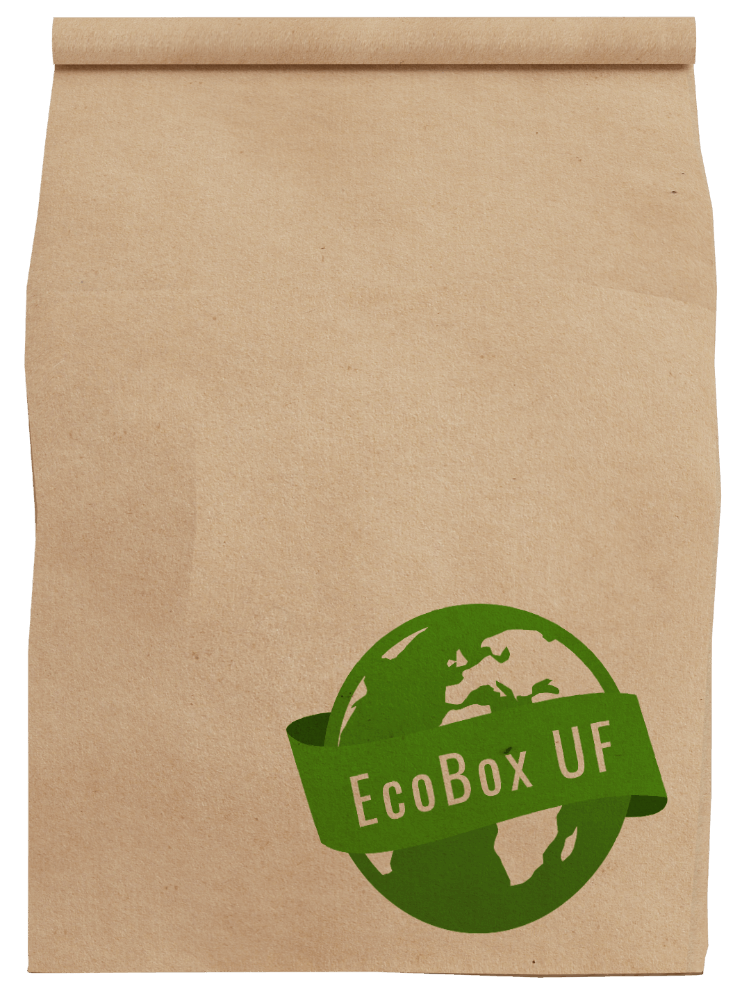
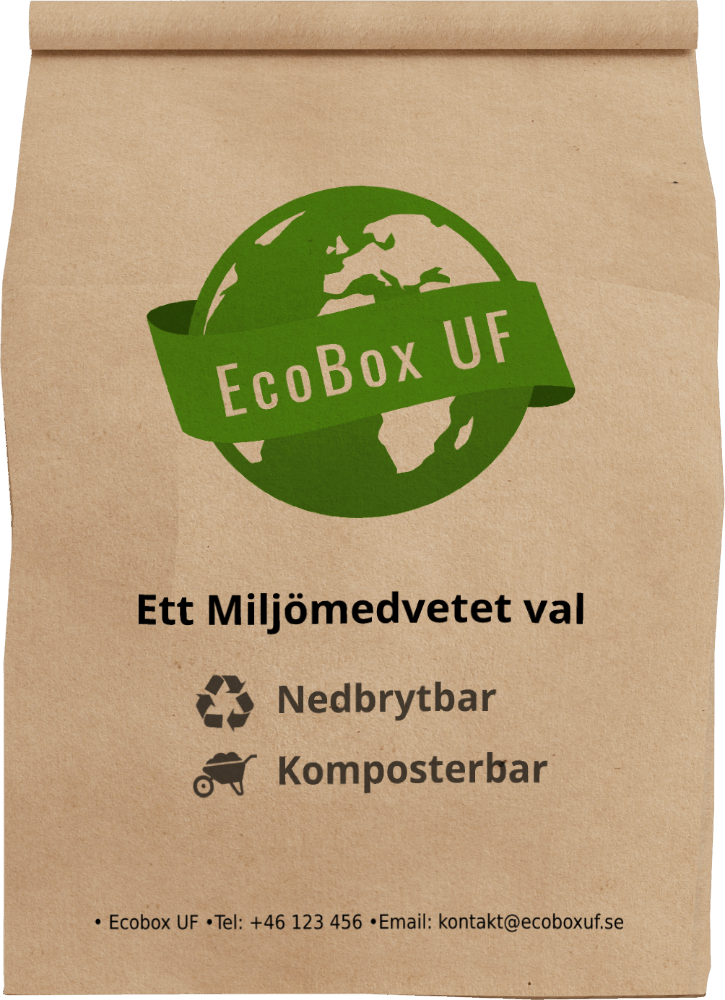
Removed unnessesary files and images, updated with new content

diff --git a/css/style.min.css b/css/style.min.css
@@ -1,1 +1,1 @@
-@font-face{font-family:'icomoon';src:url("../fonts/icomoon/icomoon.eot?srf3rx");src:url("../fonts/icomoon/icomoon.eot?srf3rx#iefix") format("embedded-opentype"),url("../fonts/icomoon/icomoon.ttf?srf3rx") format("truetype"),url("../fonts/icomoon/icomoon.woff?srf3rx") format("woff"),url("../fonts/icomoon/icomoon.svg?srf3rx#icomoon") format("svg");font-weight:normal;font-style:normal}body{font-family:"Roboto",Arial,serif;line-height:1.8;font-size:20px;font-weight:300}a{color:#5aac16;-webkit-transition:.5s;-o-transition:.5s;transition:.5s}a:hover{text-decoration:none;color:#4d891b}a:focus,a:active{outline:0}p,span{margin-bottom:1.5em;font-size:20px;color:#727272;font-weight:300;font-family:"Roboto",Arial,serif}span{font-size:18px;color:rgba(114,114,114,0.8)}h1,h2,h3,h4,h5,h6{color:rgba(0,0,0,0.8);font-family:"Roboto",Arial,serif;font-weight:300;margin:0 0 30px 0}::-webkit-selection{color:#fcfcfc;background:#5aac16}::-moz-selection{color:#fcfcfc;background:#5aac16}::selection{color:#fcfcfc;background:#5aac16}.btn{text-transform:uppercase;letter-spacing:2px;-webkit-transition:.3s;-o-transition:.3s;transition:.3s}.btn.btn-primary{background:#5aac16;color:#fff;border:none!important;border:2px solid transparent!important}.btn.btn-primary:hover,.btn.btn-primary:active,.btn.btn-primary:focus{box-shadow:none;background:#f03861}.btn:hover,.btn:active,.btn:focus{background:#393e46!important;color:#fff;outline:none!important}.btn.btn-default:hover,.btn.btn-default:focus,.btn.btn-default:active{border-color:transparent}.heading-section{margin-bottom:5em}.heading-section h2{position:relative;font-size:22px;letter-spacing:1px;text-transform:uppercase;font-weight:700}.heading-section h2:before{position:absolute;content:'';top:-15px;left:50%;margin-left:-15px;width:20px;height:3px;background:#5bac17}header,#fh5co-intro-section,#fh5co-services-section,#fh5co-featured-work-section,#fh5co-common-section,#fh5co-blog-section,#footer,#fh5co-contact-section,#fh5co-work-section{padding-bottom:2em}header{padding-top:2em}header .fh5co-navbar-brand{padding-bottom:2em;display:flex;flex-direction:column;align-items:center}header .fh5co-navbar-brand .fh5co-logo{position:relative;font-size:50px;color:#000;text-transform:uppercase;font-weight:700;letter-spacing:1px}header .fh5co-navbar-brand .fh5co-logo:after{position:absolute;bottom:13px;right:-14px;width:12px;height:12px;background:#f03861;content:''}header .fh5co-navbar-brand .fh5co-logo:hover{text-decoration:none}header .logo{height:20vh}header #fh5co-main-nav>ul{padding:0;margin:0}header #fh5co-main-nav>ul li{list-style:none;display:inline-block;margin-left:40px;font-size:18px}@media screen and (max-width:768px){header #fh5co-main-nav>ul li{display:block;margin-left:0;margin-bottom:15px}}header #fh5co-main-nav>ul li a{padding-bottom:5px;color:#000;position:relative;font-weight:400}header #fh5co-main-nav>ul li a.active:before{position:absolute;width:7px;height:7px;content:'';top:-5px;right:-7px;background:#5bac17;-webkit-border-radius:2px;-moz-border-radius:2px;-ms-border-radius:2px;border-radius:2px}header #fh5co-main-nav>ul li a:hover,header #fh5co-main-nav>ul li a:focus{text-decoration:none;color:#000}header #fh5co-main-nav>ul li:first-child{margin-left:0}#fh5co-intro-section h2{font-size:40px;line-height:1.5em;margin-bottom:20px}@media screen and (max-width:480px){#fh5co-intro-section h2{font-size:30px}}.owl-carousel{margin-bottom:5em}.owl-carousel .owl-controls,.owl-carousel-posts .owl-controls{margin-top:0}.owl-carousel .owl-controls .owl-nav .owl-next,.owl-carousel .owl-controls .owl-nav .owl-prev,.owl-carousel-posts .owl-controls .owl-nav .owl-next,.owl-carousel-posts .owl-controls .owl-nav .owl-prev{top:50%;margin-top:-29px;z-index:9999;position:absolute;-webkit-transition:.2s;-o-transition:.2s;transition:.2s}.owl-carousel-posts .owl-controls .owl-nav .owl-next,.owl-carousel-posts .owl-controls .owl-nav .owl-prev{top:24%}.owl-carousel .owl-controls .owl-nav .owl-next,.owl-carousel-posts .owl-controls .owl-nav .owl-next{right:40px}.owl-carousel .owl-controls .owl-nav .owl-next:hover,.owl-carousel-posts .owl-controls .owl-nav .owl-next:hover{margin-right:-10px}.owl-carousel .owl-controls .owl-nav .owl-prev,.owl-carousel-posts .owl-controls .owl-nav .owl-prev{left:40px}.owl-carousel .owl-controls .owl-nav .owl-prev:hover,.owl-carousel-posts .owl-controls .owl-nav .owl-prev:hover{margin-left:-10px}.owl-carousel-posts .owl-controls .owl-nav .owl-next{right:-50px}@media screen and (max-width:768px){.owl-carousel-posts .owl-controls .owl-nav .owl-next{right:0}}.owl-carousel-posts .owl-controls .owl-nav .owl-prev{left:-50px}@media screen and (max-width:768px){.owl-carousel-posts .owl-controls .owl-nav .owl-prev{left:0}}.owl-carousel-posts .owl-controls .owl-nav .owl-next i,.owl-carousel-posts .owl-controls .owl-nav .owl-prev i,.owl-carousel-fullwidth .owl-controls .owl-nav .owl-next i,.owl-carousel-fullwidth .owl-controls .owl-nav .owl-prev i{color:#000}.owl-carousel-posts .owl-controls .owl-nav .owl-next:hover i,.owl-carousel-posts .owl-controls .owl-nav .owl-prev:hover i,.owl-carousel-fullwidth .owl-controls .owl-nav .owl-next:hover i,.owl-carousel-fullwidth .owl-controls .owl-nav .owl-prev:hover i{color:#000}.owl-carousel-fullwidth.fh5co-light-arrow .owl-controls .owl-nav .owl-next i,.owl-carousel-fullwidth.fh5co-light-arrow .owl-controls .owl-nav .owl-prev i{font-size:50px;color:#fff}.owl-carousel-fullwidth.fh5co-light-arrow .owl-controls .owl-nav .owl-next:hover i,.owl-carousel-fullwidth.fh5co-light-arrow .owl-controls .owl-nav .owl-prev:hover i{color:#fff}.owl-carousel .owl-controls .owl-nav .owl-next i,.owl-carousel .owl-controls .owl-nav .owl-prev i{font-size:50px;color:rgba(0,0,0,0.3)}.owl-carousel .owl-controls .owl-nav .owl-next:hover i,.owl-carousel .owl-controls .owl-nav .owl-prev:hover i{color:rgba(0,0,0,0.6)}.owl-carousel .owl-controls .owl-nav .owl-next:hover{margin-right:-10px}.owl-carousel .owl-controls .owl-nav .owl-prev:hover{margin-left:-10px}.owl-carousel .owl-dots{display:none!important}@media screen and (max-width:992px){.owl-carousel .owl-dots{display:block!important}}@media screen and (max-width:768px){.owl-theme .owl-controls .owl-nav{display:none}}.owl-theme .owl-controls .owl-nav [class*="owl-"]{background:none!important}.owl-theme .owl-controls .owl-nav [class*="owl-"] i{font-size:30px}.owl-theme .owl-controls .owl-nav [class*="owl-"] i:hover,.owl-theme .owl-controls .owl-nav [class*="owl-"] i:focus{background:none!important}.owl-theme .owl-controls .owl-nav [class*="owl-"]:hover,.owl-theme .owl-controls .owl-nav [class*="owl-"]:focus{background:none!important}.owl-theme .owl-dots{position:absolute;bottom:0;width:100%;text-align:center}.owl-carousel-fullwidth.owl-theme .owl-dots{bottom:0;margin-bottom:40px}.owl-theme .owl-dots .owl-dot span{width:10px;height:10px;background:rgba(255,255,255,0.3);-webkit-transition:.2s;-o-transition:.2s;transition:.2s;border:2px solid transparent}.owl-theme .owl-dots .owl-dot span:hover{background:0}.owl-theme .owl-dots .owl-dot.active span,.owl-theme .owl-dots .owl-dot:hover span{background:#fff}.item{position:relative}.item .pop-up-overlay{position:absolute;top:0;bottom:0;left:0;right:0;background:rgba(240,56,97,0.8);opacity:0;-webkit-transition:.5s;-o-transition:.5s;transition:.5s}.item .pop-up-overlay.pop-up-overlay-color-2{background:rgba(248,125,9,0.8)!important}.item .pop-up-overlay.pop-up-overlay-color-3{background:rgba(23,231,164,0.8)!important}.item .pop-up-overlay.pop-up-overlay-color-4{background:rgba(249,197,53,0.8)!important}.item .pop-up-overlay .desc{position:absolute;top:50%;left:0;bottom:0;right:0;margin-top:-60px;padding:30px}.item .pop-up-overlay .desc h3{color:rgba(255,255,255,0.9);margin-bottom:10px}.item .pop-up-overlay .desc span{display:block;color:rgba(255,255,255,0.6)}.item .pop-up-overlay:hover,.item .pop-up-overlay:focus{text-decoration:none}.item:hover .pop-up-overlay,.item:focus .pop-up-overlay{opacity:1}.services-num{position:relative}.services-num .number-holder{position:absolute;font-size:100px;font-weight:700;top:0;left:15px;line-height:100px;color:#000}.services-num .desc{padding-left:140px}.services-num .desc h3{font-weight:300;line-height:26px;font-size:24px;margin-bottom:8px}.services-num.services-num-text-right{text-align:right}.services-num.services-num-text-right .number-holder{right:15px}.services-num.services-num-text-right .desc{padding-left:0;padding-right:140px}@media screen and (max-width:768px){.services-num.services-num-text-right{text-align:left}.services-num.services-num-text-right .number-holder{right:0;left:15px}.services-num.services-num-text-right .desc{padding-left:140px;padding-right:0}}@media screen and (max-width:480px){.services-num.services-num-text-right .desc{padding-left:80px}}@media screen and (max-width:480px){.services-num .number-holder{font-size:50px}.services-num .desc{padding-left:80px}}.fh5co-table,.fh5co-table-cell,.fh5co-hero,.fh5co-parallax{height:500px}.fh5co-hero,.fh5co-parallax{background-color:#555;background-attachment:fixed;background-size:cover;position:relative;margin-bottom:7em}.fh5co-hero .overlay,.fh5co-parallax .overlay{position:absolute;top:0;left:0;right:0;bottom:0;background:black;opacity:.2}@media screen and (max-width:768px){.fh5co-hero,.fh5co-parallax{height:inherit;padding:4em 0}}.fh5co-hero .fh5co-intro h1,.fh5co-parallax .fh5co-intro h1{color:#fff;font-size:70px;font-weight:300;margin-bottom:10px}@media screen and (max-width:768px){.fh5co-hero .fh5co-intro h1,.fh5co-parallax .fh5co-intro h1{font-size:30px}}.fh5co-hero .fh5co-intro p,.fh5co-parallax .fh5co-intro p{color:#fff}.fh5co-hero .fh5co-intro p a,.fh5co-parallax .fh5co-intro p a{color:#fff;border-bottom:2px solid rgba(255,255,255,0.2)}.fh5co-hero .fh5co-intro p a:hover,.fh5co-parallax .fh5co-intro p a:hover{color:#fff}.fh5co-table{display:table}.fh5co-table-cell{display:table-cell;vertical-align:middle}.services-grid{margin-bottom:50px}.services-grid i{font-size:60px;display:block;margin-bottom:30px;color:#f03861}.fhco-hero2{margin-bottom:40px}.fhco-hero2 img{margin-top:-50px}@media screen and (max-width:992px){.fhco-hero2{display:none}}.fh5co-services{position:relative;margin-bottom:40px}.fh5co-services .holder-section{padding-left:100px}.fh5co-services .holder-section h3{margin-bottom:8px;font-weight:400;font-weight:20px}.fh5co-services .fh5co-table2{display:table;width:70px;height:70px;position:absolute;top:0;left:0;background:#f03861;-webkit-border-radius:50%;-moz-border-radius:50%;-ms-border-radius:50%;border-radius:50%}.fh5co-services .fh5co-table-cell2{display:table-cell;vertical-align:middle}.fh5co-services .fh5co-table-cell2 i{display:block;color:#fff;font-size:32px}.fh5co-services-right{margin-bottom:40px;position:relative;text-align:right}.fh5co-services-right .holder-section{padding-right:100px}.fh5co-services-right .holder-section h3{margin-bottom:8px;font-weight:400;font-weight:20px}.fh5co-services-right .fh5co-table2{display:table;width:70px;height:70px;position:absolute;top:0;right:0;background:#f03861;-webkit-border-radius:50%;-moz-border-radius:50%;-ms-border-radius:50%;border-radius:50%}.fh5co-services-right .fh5co-table-cell2{display:table-cell;vertical-align:middle}.fh5co-services-right .fh5co-table-cell2 i{display:block;color:#fff;font-size:32px}@media screen and (max-width:768px){.fh5co-services-right{margin-bottom:0;text-align:left}.fh5co-services-right .holder-section{padding-right:0;padding-left:100px}.fh5co-services-right .fh5co-table2{left:0}}.fh5co-table2-color-2{background:#f87d09!important}.fh5co-table2-color-3{background:#17e7a4!important}.fh5co-table2-color-4{background:#f9c535!important}.fh5co-table2-color-5{background:#51dacf!important}.fh5co-table2-color-6{background:#ff7676!important}@media screen and (max-width:992px){.blog-section{margin-bottom:80px}}.blog-section span{display:block;font-size:80px;color:#000;line-height:0;margin-bottom:60px;font-weight:700;position:relative}.blog-section span small{position:absolute;top:0;font-size:16px;color:rgba(114,114,114,0.8);font-weight:300;line-height:0;margin-left:20px}.blog-section h3{margin-bottom:10px}.blog-section h3 a{color:#000}.fh5co-grid-work{margin-bottom:60px}.fh5co-grid-work .work-holder{position:relative;margin-bottom:30px}.fh5co-grid-work .work-holder img{max-width:100%}.fh5co-grid-work .work-holder .inner-overlay{display:block;position:absolute;top:0;bottom:0;left:0;right:0;background:rgba(240,56,97,0.9);opacity:0}.fh5co-grid-work .work-holder .inner-overlay i{position:absolute;top:50%;left:50%;margin-left:-10px;margin-top:-10px;color:#fff;font-size:30px}.fh5co-grid-work .work-holder .inner-overlay.inner-overlay-2{background:rgba(248,125,9,0.9)}.fh5co-grid-work .work-holder .inner-overlay.inner-overlay-3{background:rgba(23,231,164,0.9)}.fh5co-grid-work .work-holder .inner-overlay.inner-overlay-4{background:rgba(249,197,53,0.9)}.fh5co-grid-work .work-holder .inner-overlay.inner-overlay-4{background:rgba(81,218,207,0.9)}.fh5co-grid-work .work-holder .inner-overlay.inner-overlay-5{background:rgba(255,118,118,0.9)}.fh5co-grid-work .desc h3{font-size:20px;margin-bottom:10px}.fh5co-grid-work .desc h3 a{color:#000}.fh5co-grid-work .desc span{color:rgba(114,114,114,0.5);font-size:16px}.fh5co-grid-work:hover .inner-overlay,.fh5co-grid-work:focus .inner-overlay{opacity:1}.about{padding-bottom:5em}.about img{margin-bottom:50px}.about .team-section-grid{position:relative;background-size:cover;height:450px;margin-bottom:30px}.about .team-section-grid .overlay-section{position:absolute;top:0;bottom:0;left:0;right:0;background:rgba(0,0,0,0.5);opacity:0;-webkit-transition:.6s;-o-transition:.6s;transition:.6s}.about .team-section-grid .overlay-section h3{color:#fff;margin-bottom:10px;font-size:24px}.about .team-section-grid .overlay-section p{color:rgba(255,255,255,0.8)}.about .team-section-grid .overlay-section p.fh5co-social-icons a:hover,.about .team-section-grid .overlay-section p.fh5co-social-icons a:focus{text-decoration:none!important}.about .team-section-grid .overlay-section p.fh5co-social-icons i{font-size:32px}.about .team-section-grid .overlay-section span{color:#fff;display:block}.about .team-section-grid .overlay-section .desc{position:absolute;bottom:0;left:30px;right:30px}.about .team-section-grid:hover .overlay-section{opacity:1}.about .fh5co-social-icons a{color:rgba(255,255,255,0.7);cursor:pointer;-webkit-transition:.5s;-o-transition:.5s;transition:.5s}.about .fh5co-social-icons a:hover{color:white}.contact-info{margin-bottom:4em;padding:0}.contact-info li{list-style:none;margin:0 0 20px 0;position:relative;padding-left:40px}.contact-info li i{position:absolute;top:.3em;left:0;font-size:22px;color:#4c881b}.form-control{-webkit-box-shadow:none;-moz-box-shadow:none;-ms-box-shadow:none;-o-box-shadow:none;box-shadow:none;border:0;border:1px solid rgba(0,0,0,0.1);font-size:18px;font-weight:300;-webkit-border-radius:0;-moz-border-radius:0;-ms-border-radius:0;border-radius:0}.form-control:focus,.form-control:active{box-shadow:none;border:1px solid rgba(0,0,0,0.8)}input[type="text"]{height:50px}.form-group{margin-bottom:30px}#map{width:100%;height:500px;position:relative;margin-bottom:5em}@media screen and (max-width:768px){#map{height:200px}}#footer{padding-top:3em;background-color:#eee}#footer p{font-size:16px}#footer p:last-child{margin-bottom:0}#footer p.fh5co-social-icons a:hover,#footer p.fh5co-social-icons a:focus{text-decoration:none!important}#footer p.fh5co-social-icons i{font-size:32px}.js .animate-box{opacity:0}
+@font-face{font-family:'icomoon';src:url("../fonts/icomoon/icomoon.eot?srf3rx");src:url("../fonts/icomoon/icomoon.eot?srf3rx#iefix") format("embedded-opentype"),url("../fonts/icomoon/icomoon.ttf?srf3rx") format("truetype"),url("../fonts/icomoon/icomoon.woff?srf3rx") format("woff"),url("../fonts/icomoon/icomoon.svg?srf3rx#icomoon") format("svg");font-weight:normal;font-style:normal}body{font-family:"Roboto",Arial,serif;line-height:1.8;font-size:20px;font-weight:300}a{color:#5aac16;-webkit-transition:.5s;-o-transition:.5s;transition:.5s}a:hover{text-decoration:none;color:#4d891b}a:focus,a:active{outline:0}p,span{margin-bottom:1.5em;font-size:20px;color:#727272;font-weight:300;font-family:"Roboto",Arial,serif}span{font-size:18px;color:rgba(114,114,114,0.8)}h1,h2,h3,h4,h5,h6{color:rgba(0,0,0,0.8);font-family:"Roboto",Arial,serif;font-weight:300;margin:0 0 30px 0}::-webkit-selection{color:#fcfcfc;background:#5aac16}::-moz-selection{color:#fcfcfc;background:#5aac16}::selection{color:#fcfcfc;background:#5aac16}.btn{text-transform:uppercase;letter-spacing:2px;-webkit-transition:.3s;-o-transition:.3s;transition:.3s}.btn.btn-primary{background:#5aac16;color:#fff;border:none!important;border:2px solid transparent!important}.btn.btn-primary:hover,.btn.btn-primary:active,.btn.btn-primary:focus{box-shadow:none;background:#f03861}.btn:hover,.btn:active,.btn:focus{background:#393e46!important;color:#fff;outline:none!important}.btn.btn-default:hover,.btn.btn-default:focus,.btn.btn-default:active{border-color:transparent}.heading-section{margin-bottom:5em}.heading-section h2{position:relative;font-size:22px;letter-spacing:1px;text-transform:uppercase;font-weight:700}.heading-section h2:before{position:absolute;content:'';top:-15px;left:50%;margin-left:-15px;width:20px;height:3px;background:#5bac17}header,#fh5co-intro-section,#fh5co-services-section,#fh5co-featured-work-section,#fh5co-common-section,#fh5co-blog-section,#footer,#fh5co-contact-section,#fh5co-work-section{padding-bottom:2em}header{padding-top:2em}header .fh5co-navbar-brand{padding-bottom:2em;display:flex;flex-direction:column;align-items:center}header .fh5co-navbar-brand .fh5co-logo{position:relative;font-size:50px;color:#000;text-transform:uppercase;font-weight:700;letter-spacing:1px}header .fh5co-navbar-brand .fh5co-logo:after{position:absolute;bottom:13px;right:-14px;width:12px;height:12px;background:#f03861;content:''}header .fh5co-navbar-brand .fh5co-logo:hover{text-decoration:none}header .logo{height:20vh}header #fh5co-main-nav>ul{padding:0;margin:0}header #fh5co-main-nav>ul li{list-style:none;display:inline-block;margin-left:40px;font-size:18px}@media screen and (max-width:768px){header #fh5co-main-nav>ul li{display:block;margin-left:0;margin-bottom:15px}}header #fh5co-main-nav>ul li a{padding-bottom:5px;color:#000;position:relative;font-weight:400}header #fh5co-main-nav>ul li a.active:before{position:absolute;width:7px;height:7px;content:'';top:-5px;right:-7px;background:#5bac17;-webkit-border-radius:2px;-moz-border-radius:2px;-ms-border-radius:2px;border-radius:2px}header #fh5co-main-nav>ul li a:hover,header #fh5co-main-nav>ul li a:focus{text-decoration:none;color:#000}header #fh5co-main-nav>ul li:first-child{margin-left:0}#fh5co-intro-section h2{font-size:40px;line-height:1.5em;margin-bottom:20px}@media screen and (max-width:480px){#fh5co-intro-section h2{font-size:30px}}.owl-carousel{margin-bottom:5em}.owl-carousel .owl-controls,.owl-carousel-posts .owl-controls{margin-top:0}.owl-carousel .owl-controls .owl-nav .owl-next,.owl-carousel .owl-controls .owl-nav .owl-prev,.owl-carousel-posts .owl-controls .owl-nav .owl-next,.owl-carousel-posts .owl-controls .owl-nav .owl-prev{top:50%;margin-top:-29px;z-index:9999;position:absolute;-webkit-transition:.2s;-o-transition:.2s;transition:.2s}.owl-carousel-posts .owl-controls .owl-nav .owl-next,.owl-carousel-posts .owl-controls .owl-nav .owl-prev{top:24%}.owl-carousel .owl-controls .owl-nav .owl-next,.owl-carousel-posts .owl-controls .owl-nav .owl-next{right:40px}.owl-carousel .owl-controls .owl-nav .owl-next:hover,.owl-carousel-posts .owl-controls .owl-nav .owl-next:hover{margin-right:-10px}.owl-carousel .owl-controls .owl-nav .owl-prev,.owl-carousel-posts .owl-controls .owl-nav .owl-prev{left:40px}.owl-carousel .owl-controls .owl-nav .owl-prev:hover,.owl-carousel-posts .owl-controls .owl-nav .owl-prev:hover{margin-left:-10px}.owl-carousel-posts .owl-controls .owl-nav .owl-next{right:-50px}@media screen and (max-width:768px){.owl-carousel-posts .owl-controls .owl-nav .owl-next{right:0}}.owl-carousel-posts .owl-controls .owl-nav .owl-prev{left:-50px}@media screen and (max-width:768px){.owl-carousel-posts .owl-controls .owl-nav .owl-prev{left:0}}.owl-carousel-posts .owl-controls .owl-nav .owl-next i,.owl-carousel-posts .owl-controls .owl-nav .owl-prev i,.owl-carousel-fullwidth .owl-controls .owl-nav .owl-next i,.owl-carousel-fullwidth .owl-controls .owl-nav .owl-prev i{color:#000}.owl-carousel-posts .owl-controls .owl-nav .owl-next:hover i,.owl-carousel-posts .owl-controls .owl-nav .owl-prev:hover i,.owl-carousel-fullwidth .owl-controls .owl-nav .owl-next:hover i,.owl-carousel-fullwidth .owl-controls .owl-nav .owl-prev:hover i{color:#000}.owl-carousel-fullwidth.fh5co-light-arrow .owl-controls .owl-nav .owl-next i,.owl-carousel-fullwidth.fh5co-light-arrow .owl-controls .owl-nav .owl-prev i{font-size:50px;color:#fff}.owl-carousel-fullwidth.fh5co-light-arrow .owl-controls .owl-nav .owl-next:hover i,.owl-carousel-fullwidth.fh5co-light-arrow .owl-controls .owl-nav .owl-prev:hover i{color:#fff}.owl-carousel .owl-controls .owl-nav .owl-next i,.owl-carousel .owl-controls .owl-nav .owl-prev i{font-size:50px;color:rgba(0,0,0,0.3)}.owl-carousel .owl-controls .owl-nav .owl-next:hover i,.owl-carousel .owl-controls .owl-nav .owl-prev:hover i{color:rgba(0,0,0,0.6)}.owl-carousel .owl-controls .owl-nav .owl-next:hover{margin-right:-10px}.owl-carousel .owl-controls .owl-nav .owl-prev:hover{margin-left:-10px}.owl-carousel .owl-dots{display:none!important}@media screen and (max-width:992px){.owl-carousel .owl-dots{display:block!important}}@media screen and (max-width:768px){.owl-theme .owl-controls .owl-nav{display:none}}.owl-theme .owl-controls .owl-nav [class*="owl-"]{background:none!important}.owl-theme .owl-controls .owl-nav [class*="owl-"] i{font-size:30px}.owl-theme .owl-controls .owl-nav [class*="owl-"] i:hover,.owl-theme .owl-controls .owl-nav [class*="owl-"] i:focus{background:none!important}.owl-theme .owl-controls .owl-nav [class*="owl-"]:hover,.owl-theme .owl-controls .owl-nav [class*="owl-"]:focus{background:none!important}.owl-theme .owl-dots{position:absolute;bottom:0;width:100%;text-align:center}.owl-carousel-fullwidth.owl-theme .owl-dots{bottom:0;margin-bottom:40px}.owl-theme .owl-dots .owl-dot span{width:10px;height:10px;background:rgba(255,255,255,0.3);-webkit-transition:.2s;-o-transition:.2s;transition:.2s;border:2px solid transparent}.owl-theme .owl-dots .owl-dot span:hover{background:0}.owl-theme .owl-dots .owl-dot.active span,.owl-theme .owl-dots .owl-dot:hover span{background:#fff}.item{position:relative}.item .pop-up-overlay{position:absolute;top:0;bottom:0;left:0;right:0;background:rgba(240,56,97,0.8);opacity:0;-webkit-transition:.5s;-o-transition:.5s;transition:.5s}.item .pop-up-overlay.pop-up-overlay-color-2{background:rgba(248,125,9,0.8)!important}.item .pop-up-overlay.pop-up-overlay-color-3{background:rgba(23,231,164,0.8)!important}.item .pop-up-overlay.pop-up-overlay-color-4{background:rgba(249,197,53,0.8)!important}.item .pop-up-overlay .desc{position:absolute;top:50%;left:0;bottom:0;right:0;margin-top:-60px;padding:30px}.item .pop-up-overlay .desc h3{color:rgba(255,255,255,0.9);margin-bottom:10px}.item .pop-up-overlay .desc span{display:block;color:rgba(255,255,255,0.6)}.item .pop-up-overlay:hover,.item .pop-up-overlay:focus{text-decoration:none}.item:hover .pop-up-overlay,.item:focus .pop-up-overlay{opacity:1}.services-num{position:relative}.services-num .number-holder{position:absolute;font-size:100px;font-weight:700;top:0;left:15px;line-height:100px;color:#000}.services-num .desc{padding-left:140px}.services-num .desc h3{font-weight:300;line-height:26px;font-size:24px;margin-bottom:8px}.services-num.services-num-text-right{text-align:right}.services-num.services-num-text-right .number-holder{right:15px}.services-num.services-num-text-right .desc{padding-left:0;padding-right:140px}@media screen and (max-width:768px){.services-num.services-num-text-right{text-align:left}.services-num.services-num-text-right .number-holder{right:0;left:15px}.services-num.services-num-text-right .desc{padding-left:140px;padding-right:0}}@media screen and (max-width:480px){.services-num.services-num-text-right .desc{padding-left:80px}}@media screen and (max-width:480px){.services-num .number-holder{font-size:50px}.services-num .desc{padding-left:80px}}.fh5co-table,.fh5co-table-cell,.fh5co-hero,.fh5co-parallax{height:500px}.fh5co-hero,.fh5co-parallax{background-color:#555;background-attachment:fixed;background-size:cover;position:relative;margin-bottom:7em}.fh5co-hero .overlay,.fh5co-parallax .overlay{position:absolute;top:0;left:0;right:0;bottom:0;background:black;opacity:.2}@media screen and (max-width:768px){.fh5co-hero,.fh5co-parallax{height:inherit;padding:4em 0}}.fh5co-hero .fh5co-intro h1,.fh5co-parallax .fh5co-intro h1{color:#fff;font-size:70px;font-weight:300;margin-bottom:10px}@media screen and (max-width:768px){.fh5co-hero .fh5co-intro h1,.fh5co-parallax .fh5co-intro h1{font-size:30px}}.fh5co-hero .fh5co-intro p,.fh5co-parallax .fh5co-intro p{color:#fff}.fh5co-hero .fh5co-intro p a,.fh5co-parallax .fh5co-intro p a{color:#fff;border-bottom:2px solid rgba(255,255,255,0.2)}.fh5co-hero .fh5co-intro p a:hover,.fh5co-parallax .fh5co-intro p a:hover{color:#fff}.fh5co-table{display:table}.fh5co-table-cell{display:table-cell;vertical-align:middle}.services-grid{margin-bottom:50px}.services-grid i{font-size:60px;display:block;margin-bottom:30px;color:#f03861}.fhco-hero2{margin-bottom:40px}.fhco-hero2 img{margin-top:-50px}@media screen and (max-width:992px){.fhco-hero2{display:none}}.fh5co-services{position:relative;margin-bottom:40px}.fh5co-services .holder-section{padding-left:100px}.fh5co-services .holder-section h3{margin-bottom:8px;font-weight:400;font-weight:20px}.fh5co-services .fh5co-table2{display:table;width:70px;height:70px;position:absolute;top:0;left:0;background:#f03861;-webkit-border-radius:50%;-moz-border-radius:50%;-ms-border-radius:50%;border-radius:50%}.fh5co-services .fh5co-table-cell2{display:table-cell;vertical-align:middle}.fh5co-services .fh5co-table-cell2 i{display:block;color:#fff;font-size:32px}.fh5co-services-right{margin-bottom:40px;position:relative;text-align:right}.fh5co-services-right .holder-section{padding-right:100px}.fh5co-services-right .holder-section h3{margin-bottom:8px;font-weight:400;font-weight:20px}.fh5co-services-right .fh5co-table2{display:table;width:70px;height:70px;position:absolute;top:0;right:0;background:#f03861;-webkit-border-radius:50%;-moz-border-radius:50%;-ms-border-radius:50%;border-radius:50%}.fh5co-services-right .fh5co-table-cell2{display:table-cell;vertical-align:middle}.fh5co-services-right .fh5co-table-cell2 i{display:block;color:#fff;font-size:32px}@media screen and (max-width:768px){.fh5co-services-right{margin-bottom:0;text-align:left}.fh5co-services-right .holder-section{padding-right:0;padding-left:100px}.fh5co-services-right .fh5co-table2{left:0}}.fh5co-table2-color-2{background-image:url("images/food.svg");background:#219653!important}.fh5co-table2-color-3{background:#2f80ed!important}.fh5co-table2-color-4{background:#f2604a!important}.icon{color:white;width:100px;height:auto}.icon-food{background-image:url("images/food.svg")}.icon-compost{background-image:url("images/compost.svg")}.icon-planet{background-image:url("images/planet.svg")}.icon-recycle{background-image:url("images/recycle.svg")}@media screen and (max-width:992px){.blog-section{margin-bottom:80px}}.blog-section span{display:block;font-size:80px;color:#000;line-height:0;margin-bottom:60px;font-weight:700;position:relative}.blog-section span small{position:absolute;top:0;font-size:16px;color:rgba(114,114,114,0.8);font-weight:300;line-height:0;margin-left:20px}.blog-section h3{margin-bottom:10px}.blog-section h3 a{color:#000}.fh5co-grid-work{margin-bottom:60px}.fh5co-grid-work .work-holder{position:relative;margin-bottom:30px}.fh5co-grid-work .work-holder img{max-width:100%}.fh5co-grid-work .work-holder .inner-overlay{display:block;position:absolute;top:0;bottom:0;left:0;right:0;background:rgba(240,56,97,0.9);opacity:0}.fh5co-grid-work .work-holder .inner-overlay i{position:absolute;top:50%;left:50%;margin-left:-10px;margin-top:-10px;color:#fff;font-size:30px}.fh5co-grid-work .work-holder .inner-overlay.inner-overlay-2{background:rgba(248,125,9,0.9)}.fh5co-grid-work .work-holder .inner-overlay.inner-overlay-3{background:rgba(23,231,164,0.9)}.fh5co-grid-work .work-holder .inner-overlay.inner-overlay-4{background:rgba(249,197,53,0.9)}.fh5co-grid-work .work-holder .inner-overlay.inner-overlay-4{background:rgba(81,218,207,0.9)}.fh5co-grid-work .work-holder .inner-overlay.inner-overlay-5{background:rgba(255,118,118,0.9)}.fh5co-grid-work .desc h3{font-size:20px;margin-bottom:10px}.fh5co-grid-work .desc h3 a{color:#000}.fh5co-grid-work .desc span{color:rgba(114,114,114,0.5);font-size:16px}.fh5co-grid-work:hover .inner-overlay,.fh5co-grid-work:focus .inner-overlay{opacity:1}.about{padding-bottom:5em}.about img{margin-bottom:50px}.about .team-section-grid{position:relative;background-size:cover;height:450px;margin-bottom:30px}.about .team-section-grid .overlay-section{position:absolute;top:0;bottom:0;left:0;right:0;background:rgba(0,0,0,0.5);opacity:0;-webkit-transition:.6s;-o-transition:.6s;transition:.6s}.about .team-section-grid .overlay-section h3{color:#fff;margin-bottom:10px;font-size:24px}.about .team-section-grid .overlay-section p{color:rgba(255,255,255,0.8)}.about .team-section-grid .overlay-section p.fh5co-social-icons a:hover,.about .team-section-grid .overlay-section p.fh5co-social-icons a:focus{text-decoration:none!important}.about .team-section-grid .overlay-section p.fh5co-social-icons i{font-size:32px}.about .team-section-grid .overlay-section span{color:#fff;display:block}.about .team-section-grid .overlay-section .desc{position:absolute;bottom:0;left:30px;right:30px}.about .team-section-grid:hover .overlay-section{opacity:1}.about .fh5co-social-icons a{color:rgba(255,255,255,0.7);cursor:pointer;-webkit-transition:.5s;-o-transition:.5s;transition:.5s}.about .fh5co-social-icons a:hover{color:white}.contact-info{margin-bottom:4em;padding:0}.contact-info li{list-style:none;margin:0 0 20px 0;position:relative;padding-left:40px}.contact-info li i{position:absolute;top:.3em;left:0;font-size:22px;color:#4c881b}.form-control{-webkit-box-shadow:none;-moz-box-shadow:none;-ms-box-shadow:none;-o-box-shadow:none;box-shadow:none;border:0;border:1px solid rgba(0,0,0,0.1);font-size:18px;font-weight:300;-webkit-border-radius:0;-moz-border-radius:0;-ms-border-radius:0;border-radius:0}.form-control:focus,.form-control:active{box-shadow:none;border:1px solid rgba(0,0,0,0.8)}input[type="text"]{height:50px}.form-group{margin-bottom:30px}#map{width:100%;height:500px;position:relative;margin-bottom:5em}@media screen and (max-width:768px){#map{height:200px}}#footer{padding-top:3em;background-color:#eee}#footer p{font-size:16px}#footer p:last-child{margin-bottom:0}#footer p.fh5co-social-icons a:hover,#footer p.fh5co-social-icons a:focus{text-decoration:none!important}#footer p.fh5co-social-icons i{font-size:32px}.js .animate-box{opacity:0}

diff --git a/index.html b/index.html
@@ -81,6 +81,7 @@
 		</div>
 	</a>
 	</div><!-- end fh5co-intro-section -->
+
 	<div id="fh5co-services-section">
 		<a name="work">
 		<div class="container">
@@ -90,83 +91,46 @@
 			<div class="row">
 				<div class="col-md-4 col-sm-6">
 					<div class="fh5co-services-right">
-						<div class="fh5co-table2 text-center">
-							<div class="fh5co-table-cell2">
-								<i class="icon-heart3"></i>
-							</div>
-						</div>
+						<div class="fh5co-table2 text-center"></div>
 						<div class="holder-section">
 							<h3>Crafted With Love</h3>
 							<p>Far far away, behind the word mountains, far from the countries Vokalia </p>
 						</div>
 					</div>
 					<div class="fh5co-services-right">
-						<div class="fh5co-table2 fh5co-table2-color-2 text-center">
-							<div class="fh5co-table-cell2">
-								<i class="icon-laptop"></i>
-							</div>
-						</div>
+						<div class="fh5co-table2 text-center"></div>
 						<div class="holder-section">
-							<h3>Web Design</h3>
-							<p>Far far away, behind the word mountains, far from the countries Vokalia </p>
-						</div>
-					</div>
-					<div class="fh5co-services-right">
-						<div class="fh5co-table2 fh5co-table2-color-3 text-center">
-							<div class="fh5co-table-cell2">
-								<i class="icon-video"></i>
-							</div>
-						</div>
-						<div class="holder-section">
-							<h3>Video Editing</h3>
+							<h3>Crafted With Love</h3>
 							<p>Far far away, behind the word mountains, far from the countries Vokalia </p>
 						</div>
 					</div>
 				</div>
-
 				<div class="col-md-4 text-center">
-					<div class="fhco-hero2">
-						<img class="img-responsive" src="images/paperbag3.png" alt="paperbag">
+						<div class="fhco-hero2">
+							<img class="img-responsive" src="images/paperbag3.png" alt="paperbag">
+						</div>
 					</div>
-				</div>
 				<div class="col-md-4 col-sm-6">
 					<div class="fh5co-services">
-						<div class="fh5co-table2 fh5co-table2-color-4 text-center">
-							<div class="fh5co-table-cell2">
-								<i class="icon-mobile"></i>
-							</div>
-						</div>
+						<div class="fh5co-table2 fh5co-table2-color-3 text-center"></div>
 						<div class="holder-section">
 							<h3>Mobile Optimization</h3>
 							<p>Far far away, behind the word mountains, far from the countries Vokalia </p>
 						</div>
 					</div>
 					<div class="fh5co-services">
-						<div class="fh5co-table2 fh5co-table2-color-5 text-center">
-							<div class="fh5co-table-cell2">
-								<i class="icon-gears"></i>
-							</div>
-						</div>
+						<div class="fh5co-table2 fh5co-table2-color-3 text-center"></div>
 						<div class="holder-section">
-							<h3>SEO</h3>
-							<p>Far far away, behind the word mountains, far from the countries Vokalia </p>
-						</div>
-					</div>
-					<div class="fh5co-services">
-						<div class="fh5co-table2 fh5co-table2-color-6 text-center">
-							<div class="fh5co-table-cell2">
-								<i class="icon-piechart"></i>
-							</div>
-						</div>
-						<div class="holder-section">
-							<h3>Web Analytic</h3>
+							<h3>Mobile Optimization</h3>
 							<p>Far far away, behind the word mountains, far from the countries Vokalia </p>
 						</div>
 					</div>
 				</div>
 			</div>
 		</div>
-	</a>
+		</a>
+	</div>
+
 	</div><!-- end: fh5co-services-section -->
 	<div class="fh5co-parallax" style="background-image: url(images/hero-1.jpg);" data-stellar-background-ratio="0.5">
 		<div class="overlay"></div>
@@ -174,8 +138,8 @@
 			<div class="row">
 				<div class="col-md-8 col-md-offset-2 col-sm-12 col-sm-offset-0 col-xs-12 col-xs-offset-0 text-center fh5co-table">
 					<div class="fh5co-intro fh5co-table-cell">
-						<h1 class="text-center">Create more Themes</h1>
-						<p>Made with love by the fine folks at <a href="http://freehtml5.co">FreeHTML5.co</a></p>
+						<h1 class="text-center">Minska på ert Matsvinn</h1>
+						<p>Mat som slängs varje år motsvarar utsläpp på omkring 2 miljoner ton koldioxid</p>
 					</div>
 				</div>
 			</div>

diff --git a/css/style.css b/css/style.css
@@ -646,23 +646,38 @@ header #fh5co-main-nav > ul li:first-child {
 }
 
 .fh5co-table2-color-2 {
-  background: #F87D09 !important;
+  background-image: url("images/food.svg");
+  background: #219653 !important;
 }
 
 .fh5co-table2-color-3 {
-  background: #17E7A4 !important;
+  background: #2F80ED !important;
 }
 
 .fh5co-table2-color-4 {
-  background: #F9C535 !important;
+  background: #F2604A !important;
 }
 
-.fh5co-table2-color-5 {
-  background: #51DACF !important;
+.icon {
+color: white;
+width: 100px;
+height: auto;
 }
 
-.fh5co-table2-color-6 {
-  background: #FF7676 !important;
+.icon-food {
+background-image: url("images/food.svg");
+}
+
+.icon-compost {
+background-image: url("images/compost.svg");
+}
+
+.icon-planet {
+background-image: url("images/planet.svg");
+}
+
+.icon-recycle {
+background-image: url("images/recycle.svg");
 }
 
 @media screen and (max-width: 992px) {
